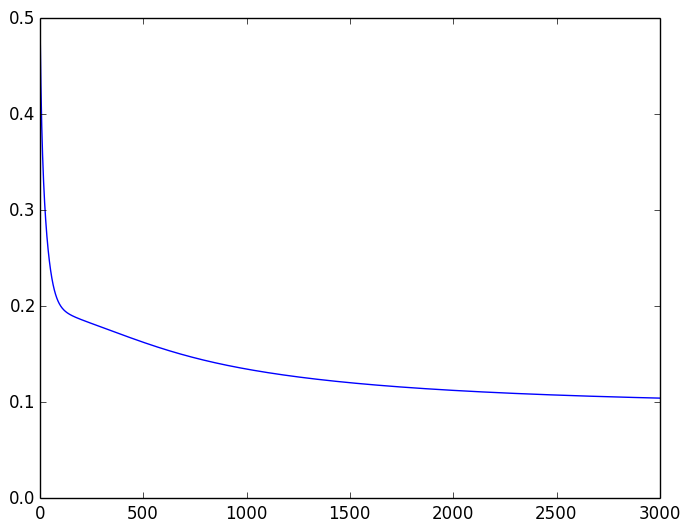
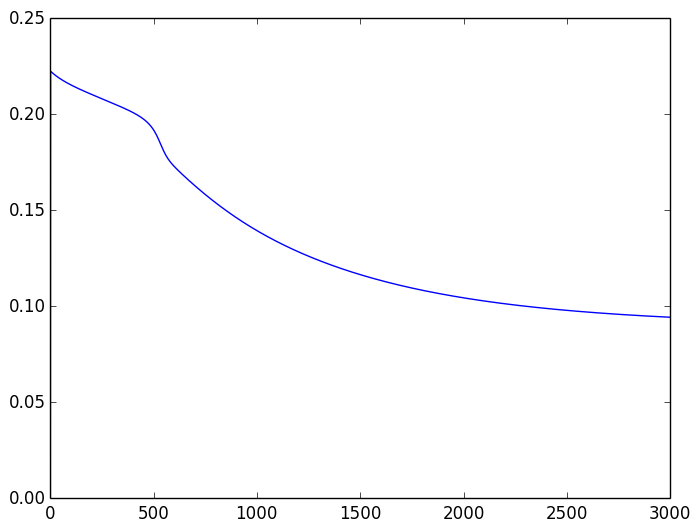
more pictures, 3.3c

diff --git a/E3/3.3.py b/E3/3.3.py
@@ -1,26 +1,53 @@
 def computeErrorFromMLPWithHiddenunitsAndData(number_of_hiddenunits, x, t):
-   #Initialization
    import numpy as np
+   import matplotlib.pyplot as mplt
+   import pylab
    
    #Training data
    #(x, t) = np.genfromtxt('RegressionData.txt').T;
-
-   #Number of neurons per layer.
-   n = [1, number_of_hiddenunits, 1];
-
-   #Weights and biases are set randomly in the range [-0.5, 0.5);
-   w = [-.5 + np.random.randn(i, j) for i, j in zip(n[:-1], n[1:])];
-   b = [np.random.randn(i) - .5 for i in n[1:]];
-
-   #Forward propagation
-   #activation of neurons, layer by layer
-   a = np.squeeze(np.tanh([np.dot(w[0], i) - b[0] for i in x]));
-   o = np.squeeze(np.asarray([np.dot(w[1].T, o.T) - b[1] for o in a]));
-
-   #Error cost function
-   e = np.asarray([(y_t - y_w)**2/2 for y_t, y_w in zip(t, o)]);
+   p = len(x)
+   nhu = number_of_hiddenunits
+   x = x.reshape(p,1)
+   t = t.reshape(p,1)
    
-   return np.sum(e)
+   #Weights and biases are set randomly in the range [-0.5, 0.5);
+   w = np.asarray([0.5 * np.random.randn(nhu), 0.5 * np.random.randn(nhu)]);
+   b = np.asarray([0.5 * np.random.randn(nhu), 0.5 * np.random.randn(1)]);
+   #b = np.asarray([[1.,1.,1.],[1.]])
+   
+   a = np.tanh(np.dot(x,w[0].reshape(1,nhu))-b[0]);
+   o = (np.mean(a*np.dot(np.ones(p).reshape(p,1),w[1].reshape(1,nhu)),axis=1) - b[1]*np.ones(p)).reshape(p,1);
+   
+   MeanErrors = [0]
+   
+   for i in range(3000):
+      #Error cost function
+      e = 0.5*(o-t)**2;
+      
+      MeanErrors.append(np.mean(e))
+      
+      #break criterium
+      if np.abs(MeanErrors[-1]-MeanErrors[-2])/MeanErrors[-1]<10**-5: 
+          break
+      
+      #Delta_j^v for calculating the weight shift; delta for output is 1 for the identity transfer function
+      d = 4*np.cosh(np.dot(x,w[0].reshape(1,nhu)))**2/np.cosh(2*np.dot(x,w[0].reshape(1,nhu))+1)**2*np.dot(np.ones(p).reshape(p,1),w[1].reshape(1,nhu))
+      
+      #weight adjustion
+      dw1 = np.mean((o-t)*a,axis=0)
+      dw0 = np.mean((o-t)*d*x,axis=0)
+      
+      w[0]-=0.05*dw0
+      w[1]-=0.05*dw1
+      
+      a = np.tanh(np.dot(x,w[0].reshape(1,nhu))-b[0]);
+      o = (np.mean(a*np.dot(np.ones(p).reshape(p,1),w[1].reshape(1,nhu)),axis=1) - b[1]*np.ones(p)).reshape(p,1);
+      
+   x = np.linspace(0.,1.,100).reshape(100,1)
+   a = np.tanh(np.dot(x,w[0].reshape(1,nhu))-b[0]);
+   o = (np.mean(a*np.dot(np.ones(100).reshape(100,1),w[1].reshape(1,nhu)),axis=1) - b[1]*np.ones(100)).reshape(100,1);
+   
+   return (np.sum(e), x, a, o)
    
 
 
@@ -50,7 +77,7 @@ for number_of_hiddenunits in range(1,11):
       subset_fx = numpy.array(fx)[subset_indicies]
       
       #find error
-      fold_error = computeErrorFromMLPWithHiddenunitsAndData(number_of_hiddenunits, subset_x, subset_fx)
+      (fold_error, plotx, plota, ploto) = computeErrorFromMLPWithHiddenunitsAndData(number_of_hiddenunits, subset_x, subset_fx)
       total_hiddenunit_error = total_hiddenunit_error + fold_error
       
       print "\t"+str(number_of_hiddenunits)+"/"+str(fold)+" error: "+str(fold_error)+"/"+str(total_hiddenunit_error)
@@ -66,10 +93,18 @@ for number_of_hiddenunits in range(1,11):
 print "bests: "+str(best_number_of_hiddenunits)+" "+str(smallest_total_hiddenunit_error)
 
 #3.3c
+(xrg, fxrg) = numpy.genfromtxt('RegressionData.txt').T
+for xrgi in xrg:
+   x = numpy.append(x, xrgi)
+for fxrgi in fxrg:
+   fx = numpy.append(fx, fxrgi)
+(error, plotx, plota, ploto) = computeErrorFromMLPWithHiddenunitsAndData(best_number_of_hiddenunits, numpy.array(x), numpy.array(fx))
 #plot
 mplt.scatter(x, fx, color='darkblue')
-(xa, fxa) = numpy.genfromtxt('RegressionData.txt').T
-mplt.scatter(xa, fxa, color='skyblue')
+mplt.scatter(xrg, fxrg, color='skyblue')
+
+mplt.plot(plotx,ploto)
+
 pylab.savefig('3.3c.png', bbox_inches='tight')
 mplt.clf()
 

diff --git a/E3/MLP_malte.py b/E3/MLP_malte.py
@@ -4,42 +4,43 @@ import pylab
 
 #Training data
 (x, t) = np.genfromtxt('RegressionData.txt').T;
-x = x.reshape(10,1)
-t = t.reshape(10,1)
+p = len(x)
+nhu = 3
+x = x.reshape(p,1)
+t = t.reshape(p,1)
 
 #Weights and biases are set randomly in the range [-0.5, 0.5);
-w = np.asarray([0.5 * np.random.randn(3), 0.5 * np.random.randn(3)]);
-b = np.asarray([0.5 * np.random.randn(3), 0.5 * np.random.randn(1)]);
+w = np.asarray([0.5 * np.random.randn(nhu), 0.5 * np.random.randn(nhu)]);
+b = np.asarray([0.5 * np.random.randn(nhu), 0.5 * np.random.randn(1)]);
 #b = np.asarray([[1.,1.,1.],[1.]])
 
-a = np.tanh(np.dot(x,w[0].reshape(1,3))-b[0]);
-o = (np.mean(a*np.dot(np.ones(10).reshape(10,1),w[1].reshape(1,3)),axis=1) - b[1]*np.ones(10)).reshape(10,1);
+a = np.tanh(np.dot(x,w[0].reshape(1,nhu))-b[0]);
+o = (np.mean(a*np.dot(np.ones(p).reshape(p,1),w[1].reshape(1,nhu)),axis=1) - b[1]*np.ones(p)).reshape(p,1);
 
 MeanErrors = [0]
 
 for i in range(3000):
-        
-    #Error cost function
-    e = 0.5*(o-t)**2;
-    
-    MeanErrors.append(np.mean(e))
-
-    #break criterium
-    if np.abs(MeanErrors[-1]-MeanErrors[-2])/MeanErrors[-1]<10**-5: 
-        break
-    
-    #Delta_j^v for calculating the weight shift; delta for output is 1 for the identity transfer function
-    d = 4*np.cosh(np.dot(x,w[0].reshape(1,3)))**2/np.cosh(2*np.dot(x,w[0].reshape(1,3))+1)**2*np.dot(np.ones(10).reshape(10,1),w[1].reshape(1,3))
-    
-    #weight adjustion
-    dw1 = np.mean((o-t)*a,axis=0)
-    dw0 = np.mean((o-t)*d*x,axis=0)
-
-    w[0]-=0.05*dw0
-    w[1]-=0.05*dw1
-    
-    a = np.tanh(np.dot(x,w[0].reshape(1,3))-b[0]);
-    o = (np.mean(a*np.dot(np.ones(10).reshape(10,1),w[1].reshape(1,3)),axis=1) - b[1]*np.ones(10)).reshape(10,1);
+   #Error cost function
+   e = 0.5*(o-t)**2;
+   
+   MeanErrors.append(np.mean(e))
+   
+   #break criterium
+   if np.abs(MeanErrors[-1]-MeanErrors[-2])/MeanErrors[-1]<10**-5: 
+       break
+   
+   #Delta_j^v for calculating the weight shift; delta for output is 1 for the identity transfer function
+   d = 4*np.cosh(np.dot(x,w[0].reshape(1,nhu)))**2/np.cosh(2*np.dot(x,w[0].reshape(1,nhu))+1)**2*np.dot(np.ones(p).reshape(p,1),w[1].reshape(1,nhu))
+   
+   #weight adjustion
+   dw1 = np.mean((o-t)*a,axis=0)
+   dw0 = np.mean((o-t)*d*x,axis=0)
+   
+   w[0]-=0.05*dw0
+   w[1]-=0.05*dw1
+   
+   a = np.tanh(np.dot(x,w[0].reshape(1,nhu))-b[0]);
+   o = (np.mean(a*np.dot(np.ones(p).reshape(p,1),w[1].reshape(1,nhu)),axis=1) - b[1]*np.ones(p)).reshape(p,1);
     
 #a
 iterations = range(len(MeanErrors))
@@ -49,14 +50,14 @@ mplt.clf()
 
 #b
 x = np.linspace(0.,1.,100).reshape(100,1)
-a = np.tanh(np.dot(x,w[0].reshape(1,3))-b[0]);
+a = np.tanh(np.dot(x,w[0].reshape(1,nhu))-b[0]);
 for i in range(3):
-    mplt.plot(x,a[:,i])
+   mplt.plot(x,a[:,i])
 pylab.savefig('./3_1b.png', bbox_inches='tight')
 mplt.clf()
 
 #c
-o = (np.mean(a*np.dot(np.ones(100).reshape(100,1),w[1].reshape(1,3)),axis=1) - b[1]*np.ones(100)).reshape(100,1);
+o = (np.mean(a*np.dot(np.ones(100).reshape(100,1),w[1].reshape(1,nhu)),axis=1) - b[1]*np.ones(100)).reshape(100,1);
 mplt.plot(x,o)
 pylab.savefig('./3_1c.png', bbox_inches='tight')
 mplt.clf()

diff --git a/E3/MLP_with_neurolab.py b/E3/MLP_with_neurolab.py
@@ -15,4 +15,4 @@ error = net.train(x, t, epochs=3000, show=1000, goal=0.0002)
 out = net.sim(x)
 
 # Plot result
-print out-t
+print (out-t)
